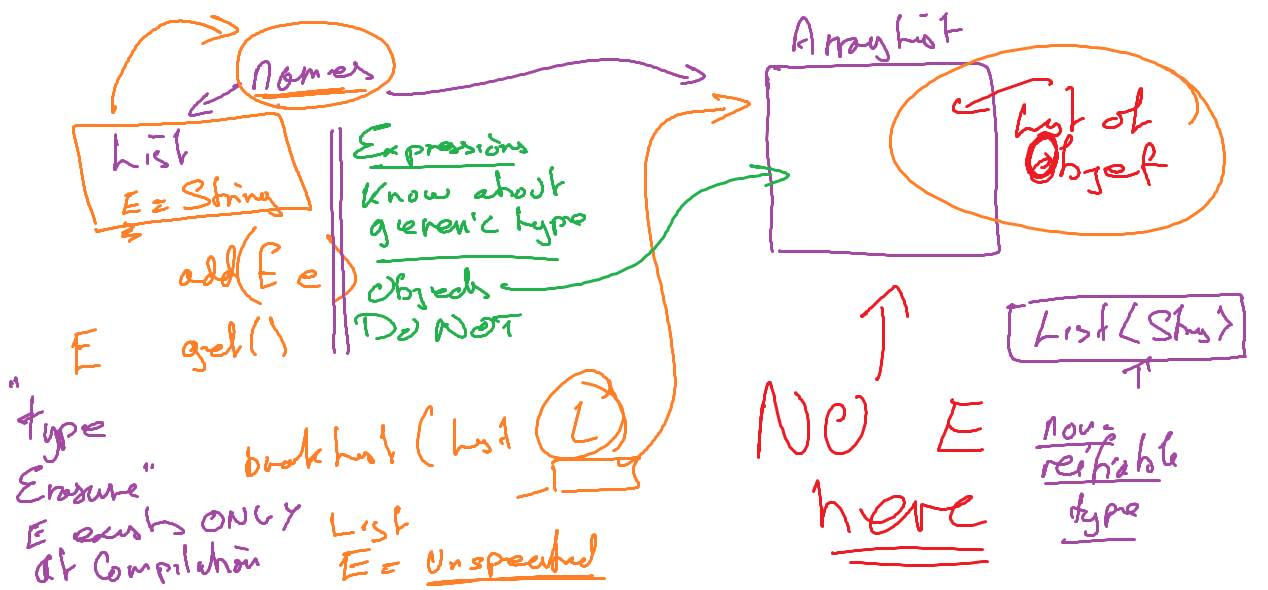
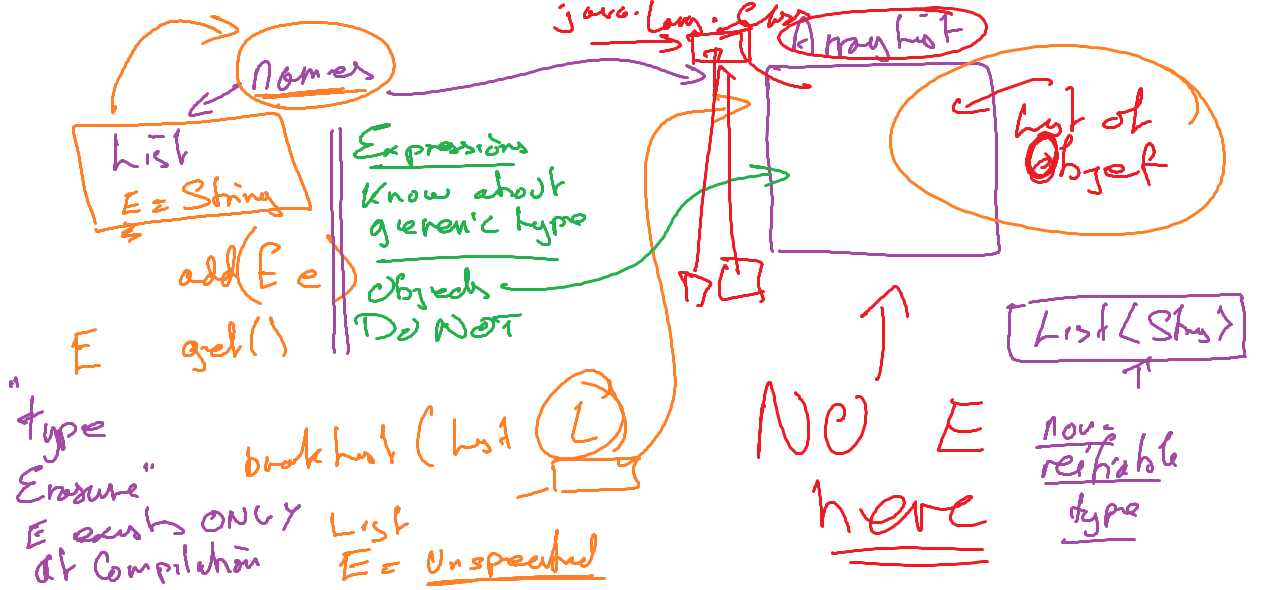
Break Two

diff --git a/src/main/java/shopping/Pair.java b/src/main/java/shopping/Pair.java
@@ -1,0 +1,71 @@
+package shopping;
+
+import java.util.List;
+
+// <F> IN THIS POSITION is a declaration of a compile-time
+// type parameter or type variable
+public class Pair<F> {
+  F left;
+  F right;
+
+  public Pair(F left, F right) {
+    this.left = left;
+    this.right = right;
+  }
+
+  // Option 2 (option 1 is make a specific subclass for PairOfMatchableClothing)
+  // fails because left/right are object...
+//  public boolean matched() {
+//    if (left instanceof Sock...) // Ugly!!!
+//    return left.getSize() == right.getSize();
+//  }
+
+  // option 3 (good) "command pattern"
+  // add a "test method" that takes a BiPredicate...
+  // option 3a (also good) "strategy" pattern
+
+  public F getLeft() {
+    return left;
+  }
+
+  public F getRight() {
+    return right;
+  }
+
+  public void setLeft(F left) {
+    this.left = left;
+  }
+
+  public void setRight(F right) {
+    this.right = right;
+  }
+
+  @Override
+  public String toString() {
+    return "Pair{" +
+        "left=" + left +
+        ", right=" + right +
+        '}';
+  }
+
+  public static void doStuff() {
+    List<String> ls = null;
+    String s = ls.get(0);
+  }
+}
+
+class StringPair extends Pair<String> {
+  public StringPair(String left, String right) {
+    super(left, right);
+  }
+
+  // this causes the creation of a "Bridge" method
+  // of the original form i.e. setLeft(Object o);
+  // The bridge checks/casts the argument to object,
+  // then invokes this method...
+  @Override
+  public void setLeft(String s) { // Isn't this an "overLOAD"???
+
+  }
+}
+

diff --git a/src/main/java/usealist/UseList.java b/src/main/java/usealist/UseList.java
@@ -41,6 +41,8 @@ public class UseList {
 
 //    breakList(names);
 //    String s = (String)names.get(0);
+
+    // javap -c -cp <classpath> usealist.UseList
     String s = names.get(0);
     System.out.println("First name is " + names.get(2));
 
@@ -53,5 +55,10 @@ public class UseList {
     for (String str : sa) {
       System.out.println("> " + str);
     }
+
+    // Generics "don't work with" primitives, only ref types
+//    List<int> li;
+    List<Number> intList = new ArrayList<>();
+    intList.add(3L); // Autoboxing (and unboxing)
   }
 }

diff --git a/src/main/java/shopping/Store.java b/src/main/java/shopping/Store.java
@@ -1,0 +1,13 @@
+package shopping;
+
+public class Store {
+  public static void main(String[] args) {
+//    ClothingPair<String> pstr = new Pair<>("Red", "Red");
+    ClothingPair<Sock> ps = new ClothingPair<>(new Sock("Red", 9), new Sock("Red", 10));
+    System.out.println("Pair is " + ps);
+    System.out.println("matches? " + ps.match());
+
+    ClothingPair<Sock> ps2 = new ClothingPair<>(new Sock("Brown", 9), new Sock("Red", 9));
+    System.out.println("pair 2 matches? " + ps2.match());
+  }
+}

diff --git a/src/main/java/shopping/ClothingPair.java b/src/main/java/shopping/ClothingPair.java
@@ -1,0 +1,16 @@
+package shopping;
+
+
+// Can use extends as a constraint with ONE class type (which must be
+// listed first) and as many interfaces as you like
+public class ClothingPair<E extends Sized & Colored/*, String*/> extends Pair<E> {
+//  java.lang.String s = "Hello";
+  public ClothingPair(E left, E right) {
+    super(left, right);
+  }
+
+  public boolean match() {
+    return left.getSize() == right.getSize() &&
+        left.getColor().equals(right.getColor());
+  }
+}

diff --git a/src/main/java/shopping/Sock.java b/src/main/java/shopping/Sock.java
@@ -1,0 +1,27 @@
+package shopping;
+
+public class Sock implements Sized, Colored {
+  private String color;
+  private int size;
+
+  public Sock(String color, int size) {
+    this.color = color;
+    this.size = size;
+  }
+
+  public String getColor() {
+    return color;
+  }
+
+  public int getSize() {
+    return size;
+  }
+
+  @Override
+  public String toString() {
+    return "Sock{" +
+        "color='" + color + '\'' +
+        ", size=" + size +
+        '}';
+  }
+}

diff --git a/src/main/java/shopping/UseAPair.java b/src/main/java/shopping/UseAPair.java
@@ -1,0 +1,13 @@
+package shopping;
+
+import java.time.LocalDate;
+
+public class UseAPair {
+  public static void main(String[] args) {
+    Pair<String> p = new Pair<>("Hello", "Bonjour");
+    String leftString = p.getLeft();
+//    p.setRight(LocalDate.now());
+    p.setRight("Guten Tag");
+  }
+
+}

diff --git a/src/main/java/shopping/Colored.java b/src/main/java/shopping/Colored.java
@@ -1,0 +1,5 @@
+package shopping;
+
+public interface Colored {
+  String getColor();
+}

diff --git a/src/main/java/shopping/Sized.java b/src/main/java/shopping/Sized.java
@@ -1,0 +1,5 @@
+package shopping;
+
+public interface Sized {
+  int getSize();
+}
